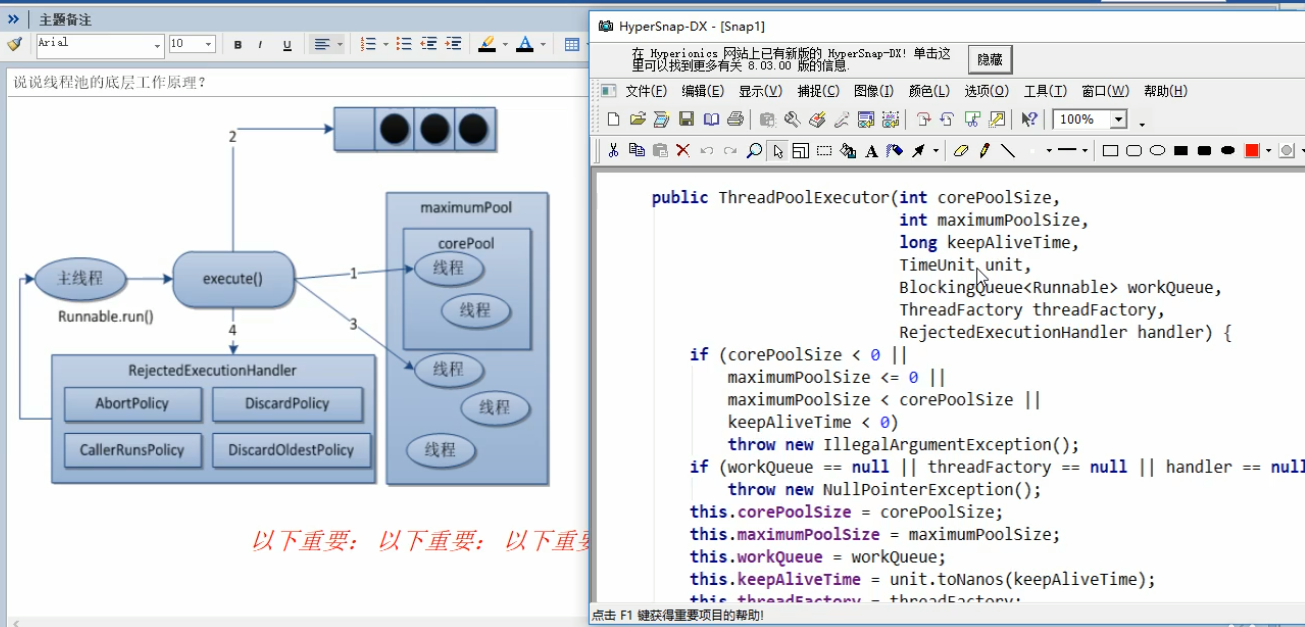
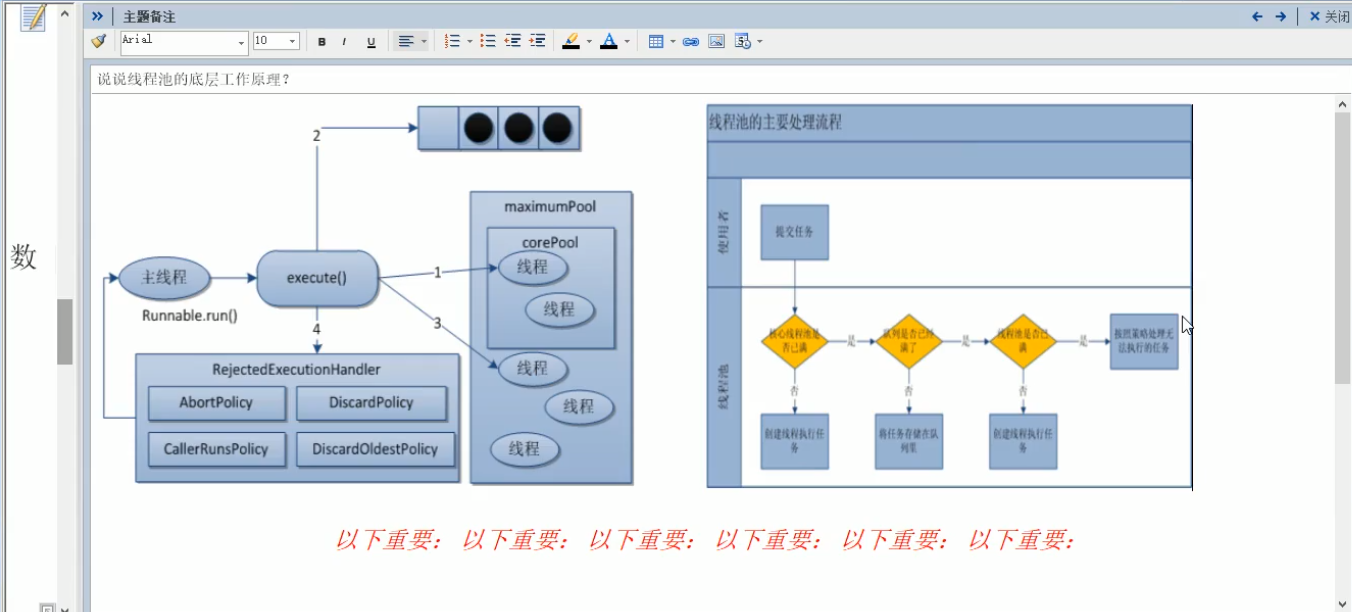
1

diff --git a/src/main/java/com/github/marsli9945/threadPoll/ThreadPollDemo.java b/src/main/java/com/github/marsli9945/threadPoll/ThreadPollDemo.java
@@ -3,9 +3,7 @@ package com.github.marsli9945.threadPoll;
 import java.util.ArrayList;
 import java.util.Arrays;
 import java.util.List;
-import java.util.concurrent.ExecutorService;
-import java.util.concurrent.Executors;
-import java.util.concurrent.TimeUnit;
+import java.util.concurrent.*;
 
 /**
  * 第4种获得Java多线程方式，线程池
@@ -13,30 +11,24 @@ import java.util.concurrent.TimeUnit;
 public class ThreadPollDemo {
 
     public static void main(String[] args) {
-        // Array Arrays
-        // Collection Collections
-        // Executor Executors
 
-//        List<String> arr = new ArrayList<>();
-//        arr.add("a");
-//        arr.add("b");
-//        arr.add("c");
-//        System.out.println(arr);
-//
-//        List<String> arr2 = Arrays.asList("a","b","c");
-//        System.out.println(arr2);
-
-//        ExecutorService pool = Executors.newFixedThreadPool(5);// 一池5个线程
-//        ExecutorService pool = Executors.newSingleThreadExecutor();// 一池1个线程
-        ExecutorService pool = Executors.newCachedThreadPool();// 一池n个线程
+        ThreadPoolExecutor pool = new ThreadPoolExecutor(
+                2,
+                5,
+                1L,
+                TimeUnit.SECONDS,
+                new LinkedBlockingQueue<Runnable>(3),
+                Executors.defaultThreadFactory(),
+                new ThreadPoolExecutor.CallerRunsPolicy()
+        );
 
         // 模拟10个用户办理业务，每个用户就是一个来自外部的请求线程
         try {
-            for (int i = 0; i < 10; i++) {
+            for (int i = 0; i < 9; i++) {
                 pool.execute(() -> {
                     System.out.println(Thread.currentThread().getName()+"\t 办理业务");
                 });
-                TimeUnit.MICROSECONDS.sleep(200);
+//                TimeUnit.MICROSECONDS.sleep(200);
             }
         }catch (Exception e){
             e.printStackTrace();
@@ -45,5 +37,40 @@ public class ThreadPollDemo {
         }
 
 
+    }
+
+    void threadPoolInit(){
+//        ExecutorService pool = Executors.newFixedThreadPool(5);// 一池5个线程
+//        ExecutorService pool = Executors.newSingleThreadExecutor();// 一池1个线程
+        ExecutorService pool = Executors.newCachedThreadPool();// 一池n个线程
+
+        // 模拟10个用户办理业务，每个用户就是一个来自外部的请求线程
+        try {
+            for (int i = 0; i < 9; i++) {
+                pool.execute(() -> {
+                    System.out.println(Thread.currentThread().getName()+"\t 办理业务");
+                });
+//                TimeUnit.MICROSECONDS.sleep(200);
+            }
+        }catch (Exception e){
+            e.printStackTrace();
+        }finally {
+            pool.shutdown();
+        }
+    }
+
+    void arr(){
+        // Array Arrays
+        // Collection Collections
+        // Executor Executors
+
+        List<String> arr = new ArrayList<>();
+        arr.add("a");
+        arr.add("b");
+        arr.add("c");
+        System.out.println(arr);
+
+        List<String> arr2 = Arrays.asList("a","b","c");
+        System.out.println(arr2);
     }
 }

diff --git a/src/main/java/com/github/marsli9945/threadPoll/DeadLockDemo.java b/src/main/java/com/github/marsli9945/threadPoll/DeadLockDemo.java
@@ -1,0 +1,51 @@
+package com.github.marsli9945.threadPoll;
+
+import java.util.concurrent.TimeUnit;
+import java.util.concurrent.locks.Lock;
+
+class HoldLockThread implements Runnable {
+
+    private String lockA;
+    private String lockB;
+
+    public HoldLockThread(String lockA, String lockB) {
+        this.lockA = lockA;
+        this.lockB = lockB;
+    }
+
+    @Override
+    public void run() {
+        synchronized (lockA) {
+            System.out.println(Thread.currentThread().getName() + "\t 自己持有：" + lockA + "尝试获得：" + lockB);
+
+            try {
+                TimeUnit.SECONDS.sleep(2);
+            } catch (Exception e) {
+                e.printStackTrace();
+            }
+
+            synchronized (lockB) {
+                System.out.println(Thread.currentThread().getName() + "\t 自己持有：" + lockB + "尝试获得：" + lockA);
+            }
+        }
+
+    }
+}
+
+/**
+ * 死锁是指两个或两个以上线程在执行过程中
+ * 因争夺资源而造成相互等待的现象
+ * 若无外力干涉他们将无法推进下去
+ */
+public class DeadLockDemo {
+
+    public static void main(String[] args) {
+
+        String lockA = "lockA";
+        String lockB = "lockB";
+
+        new Thread(new HoldLockThread(lockA,lockB),"ThreadAAA").start();
+        new Thread(new HoldLockThread(lockB,lockA),"ThreadBBB").start();
+
+    }
+}

diff --git a/src/main/java/com/github/marsli9945/docs/threadPoll.md b/src/main/java/com/github/marsli9945/docs/threadPoll.md
@@ -43,5 +43,12 @@
 
 ### 线程池原理
 ![](static/pool.png)
+![](static/pool2.png)
+
+##### 线程池的四种拒绝策略
+![](static/nohandle.png)
+
+### 死锁
+![](static/die.png)
 
 
